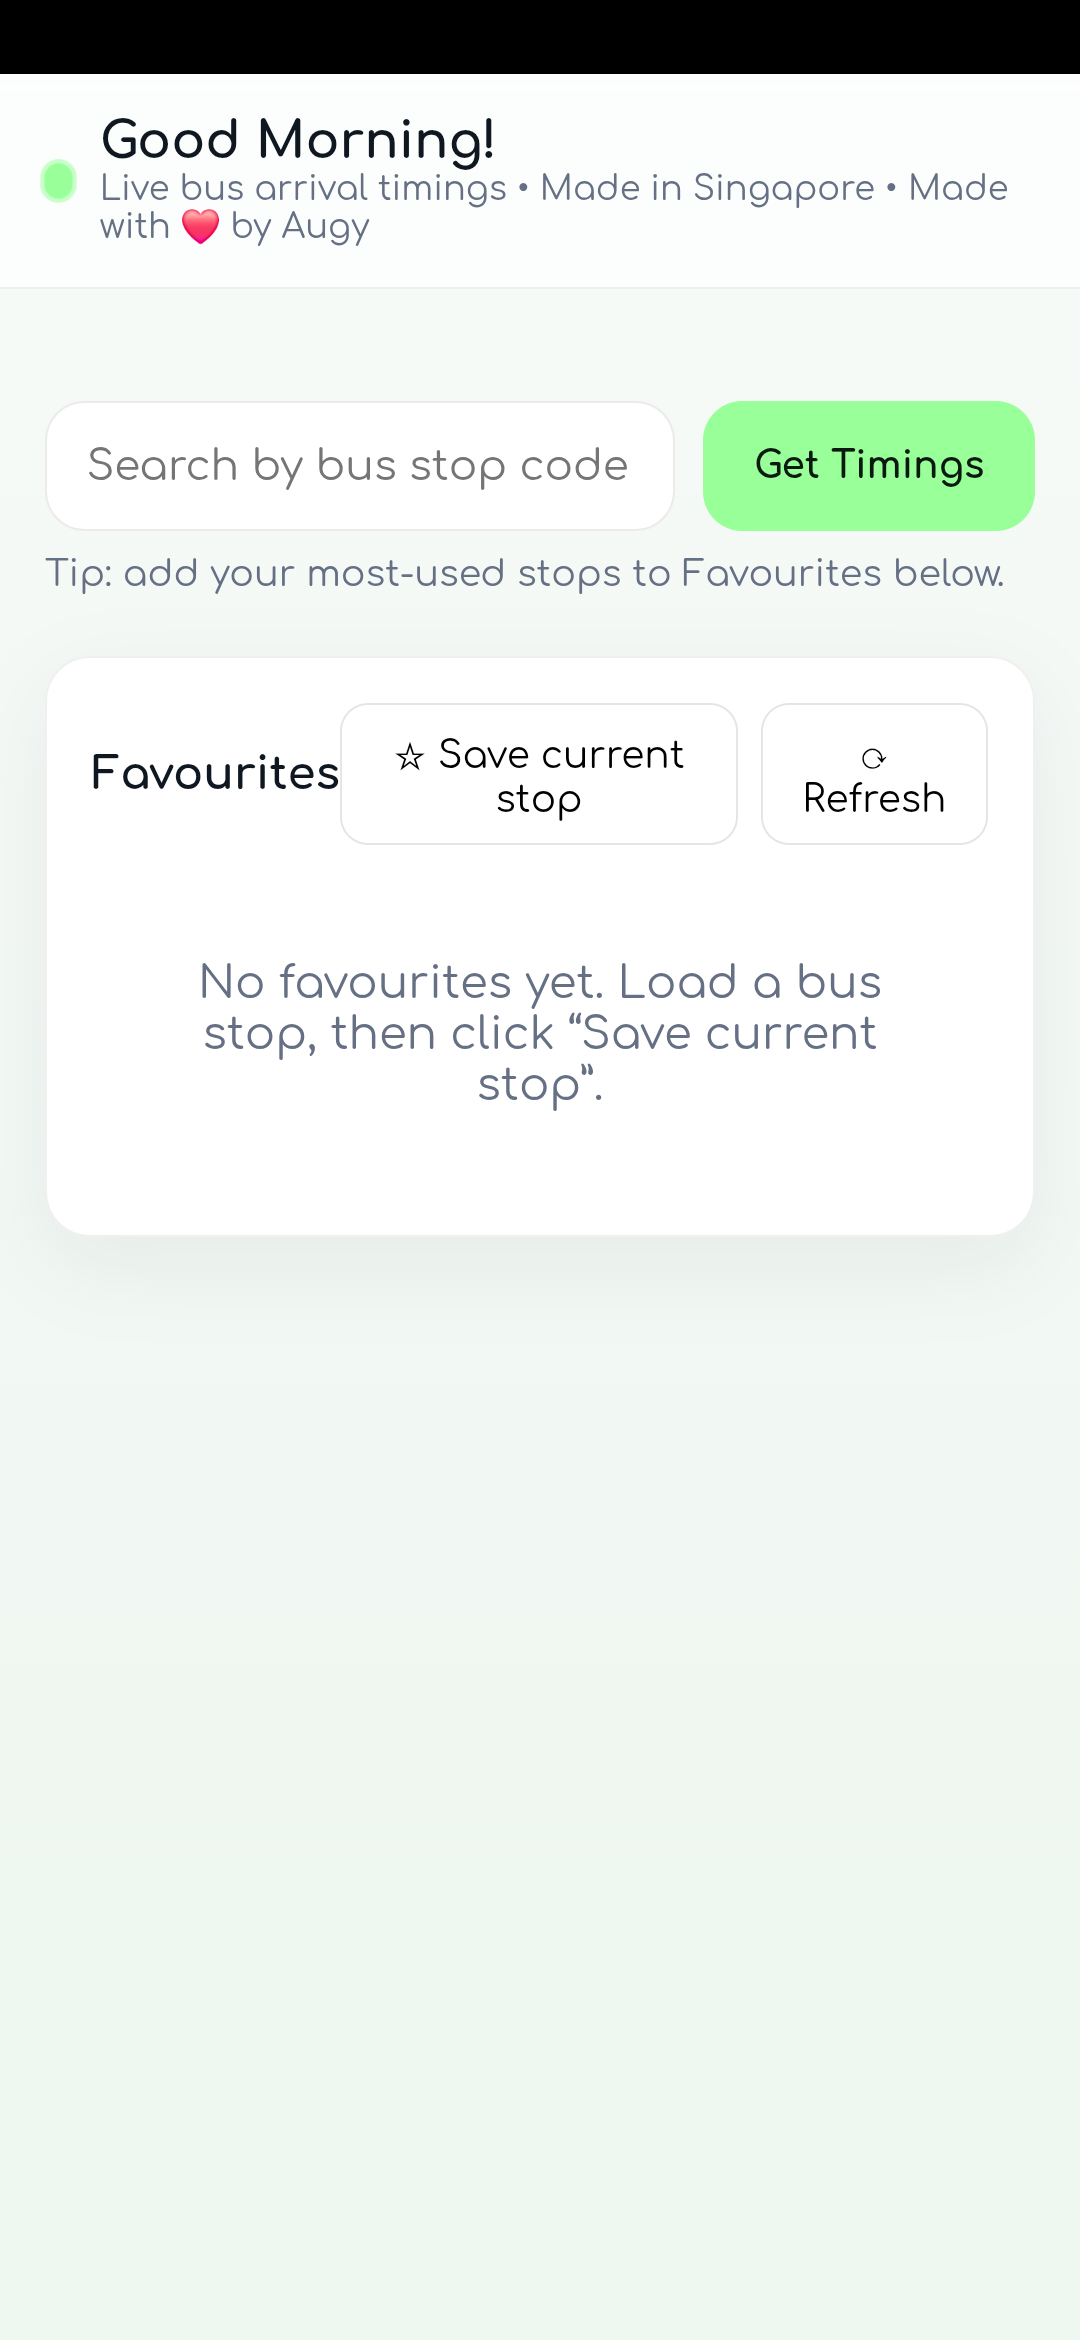
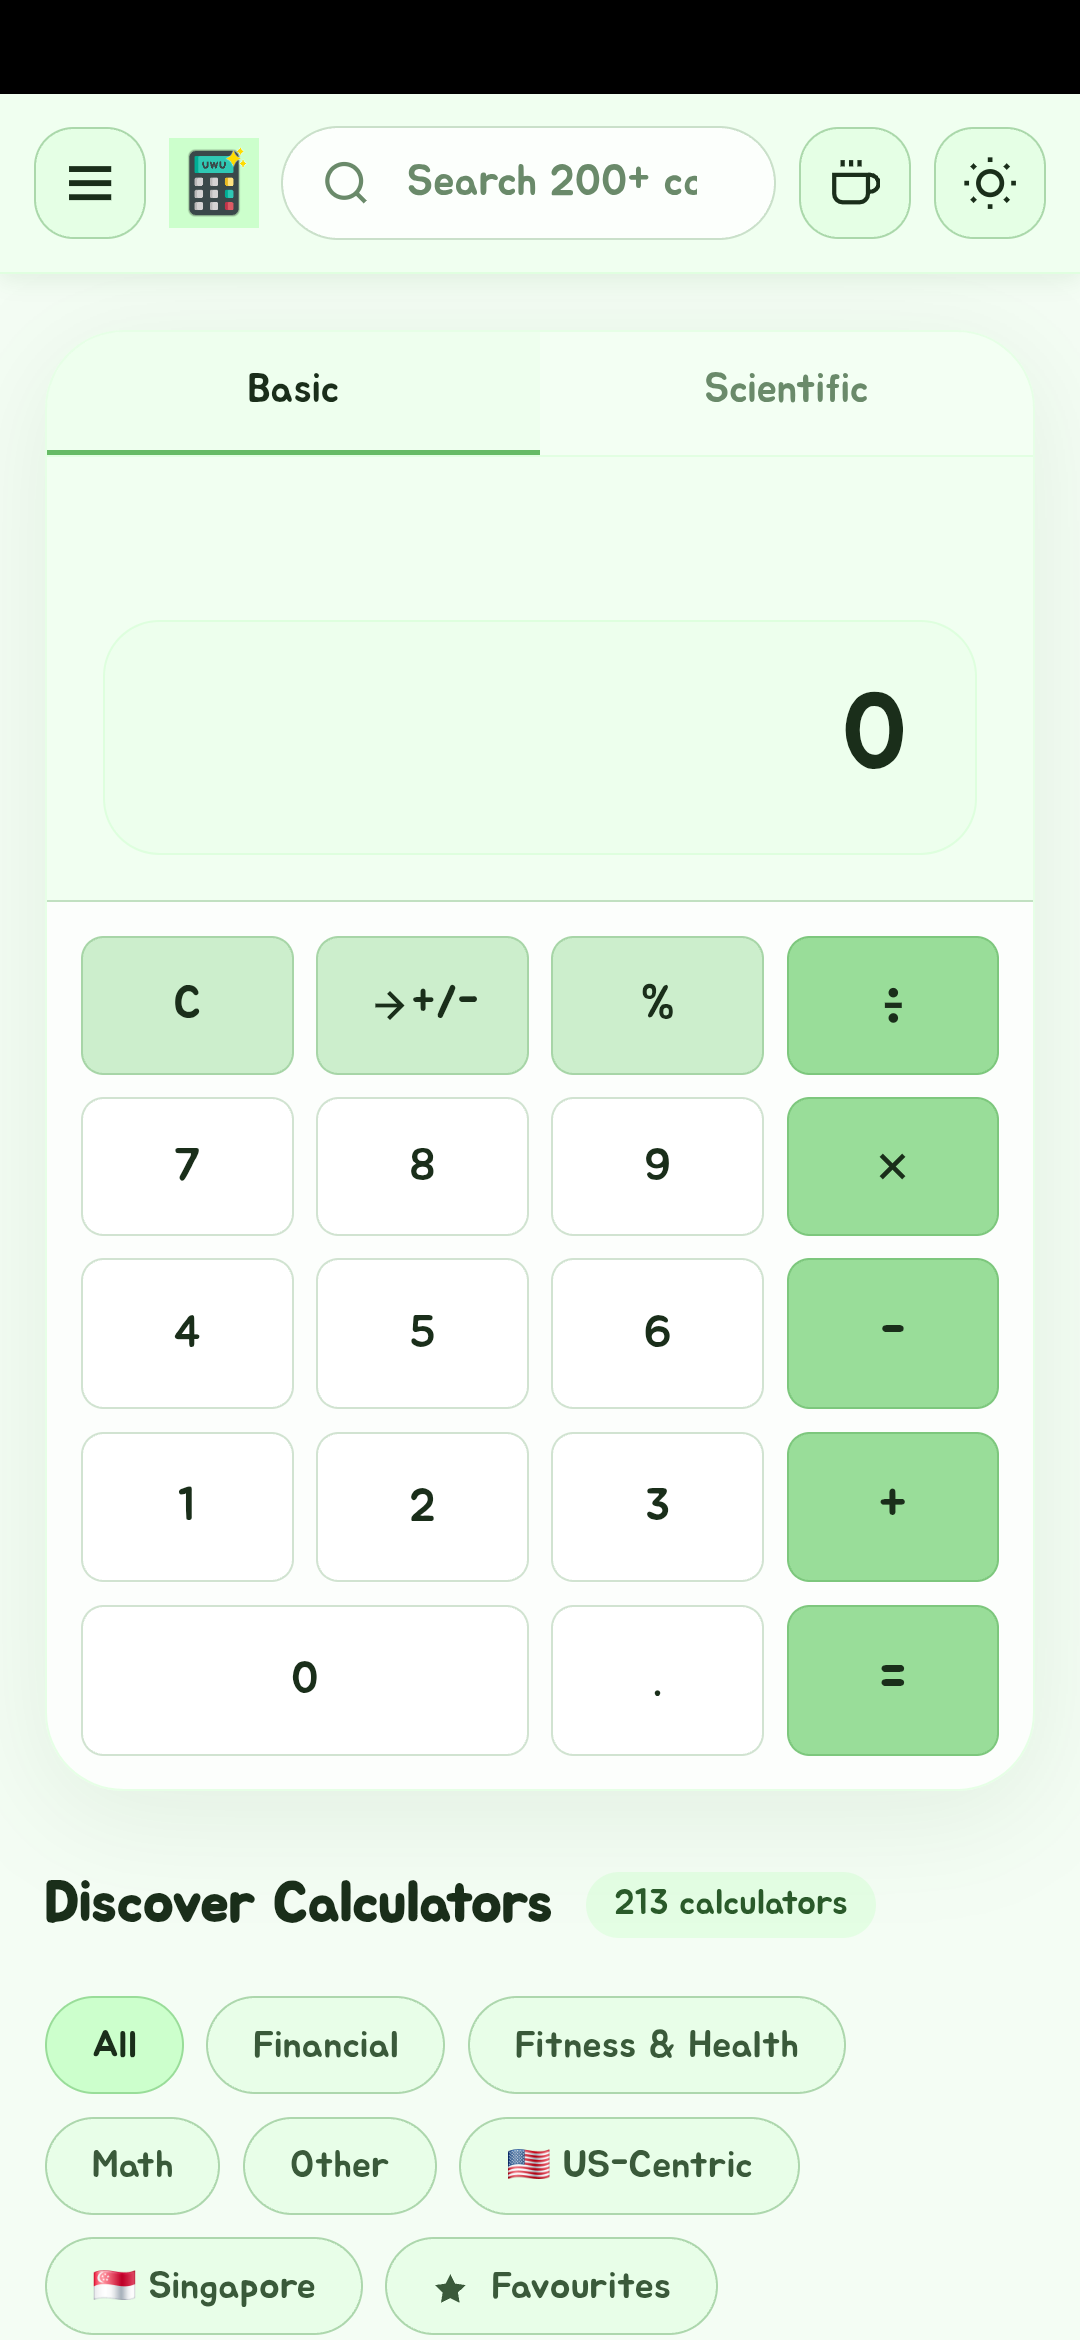
feat: update screenshots and add new images for enhanced visual content

diff --git a/sw.js b/sw.js
@@ -1,4 +1,4 @@
-const CACHE_NAME = 'uwucalc-v12';
+const CACHE_NAME = 'uwucalc-v13';
 const STATIC_ASSETS = [
   '/',
   '/css/global.css',